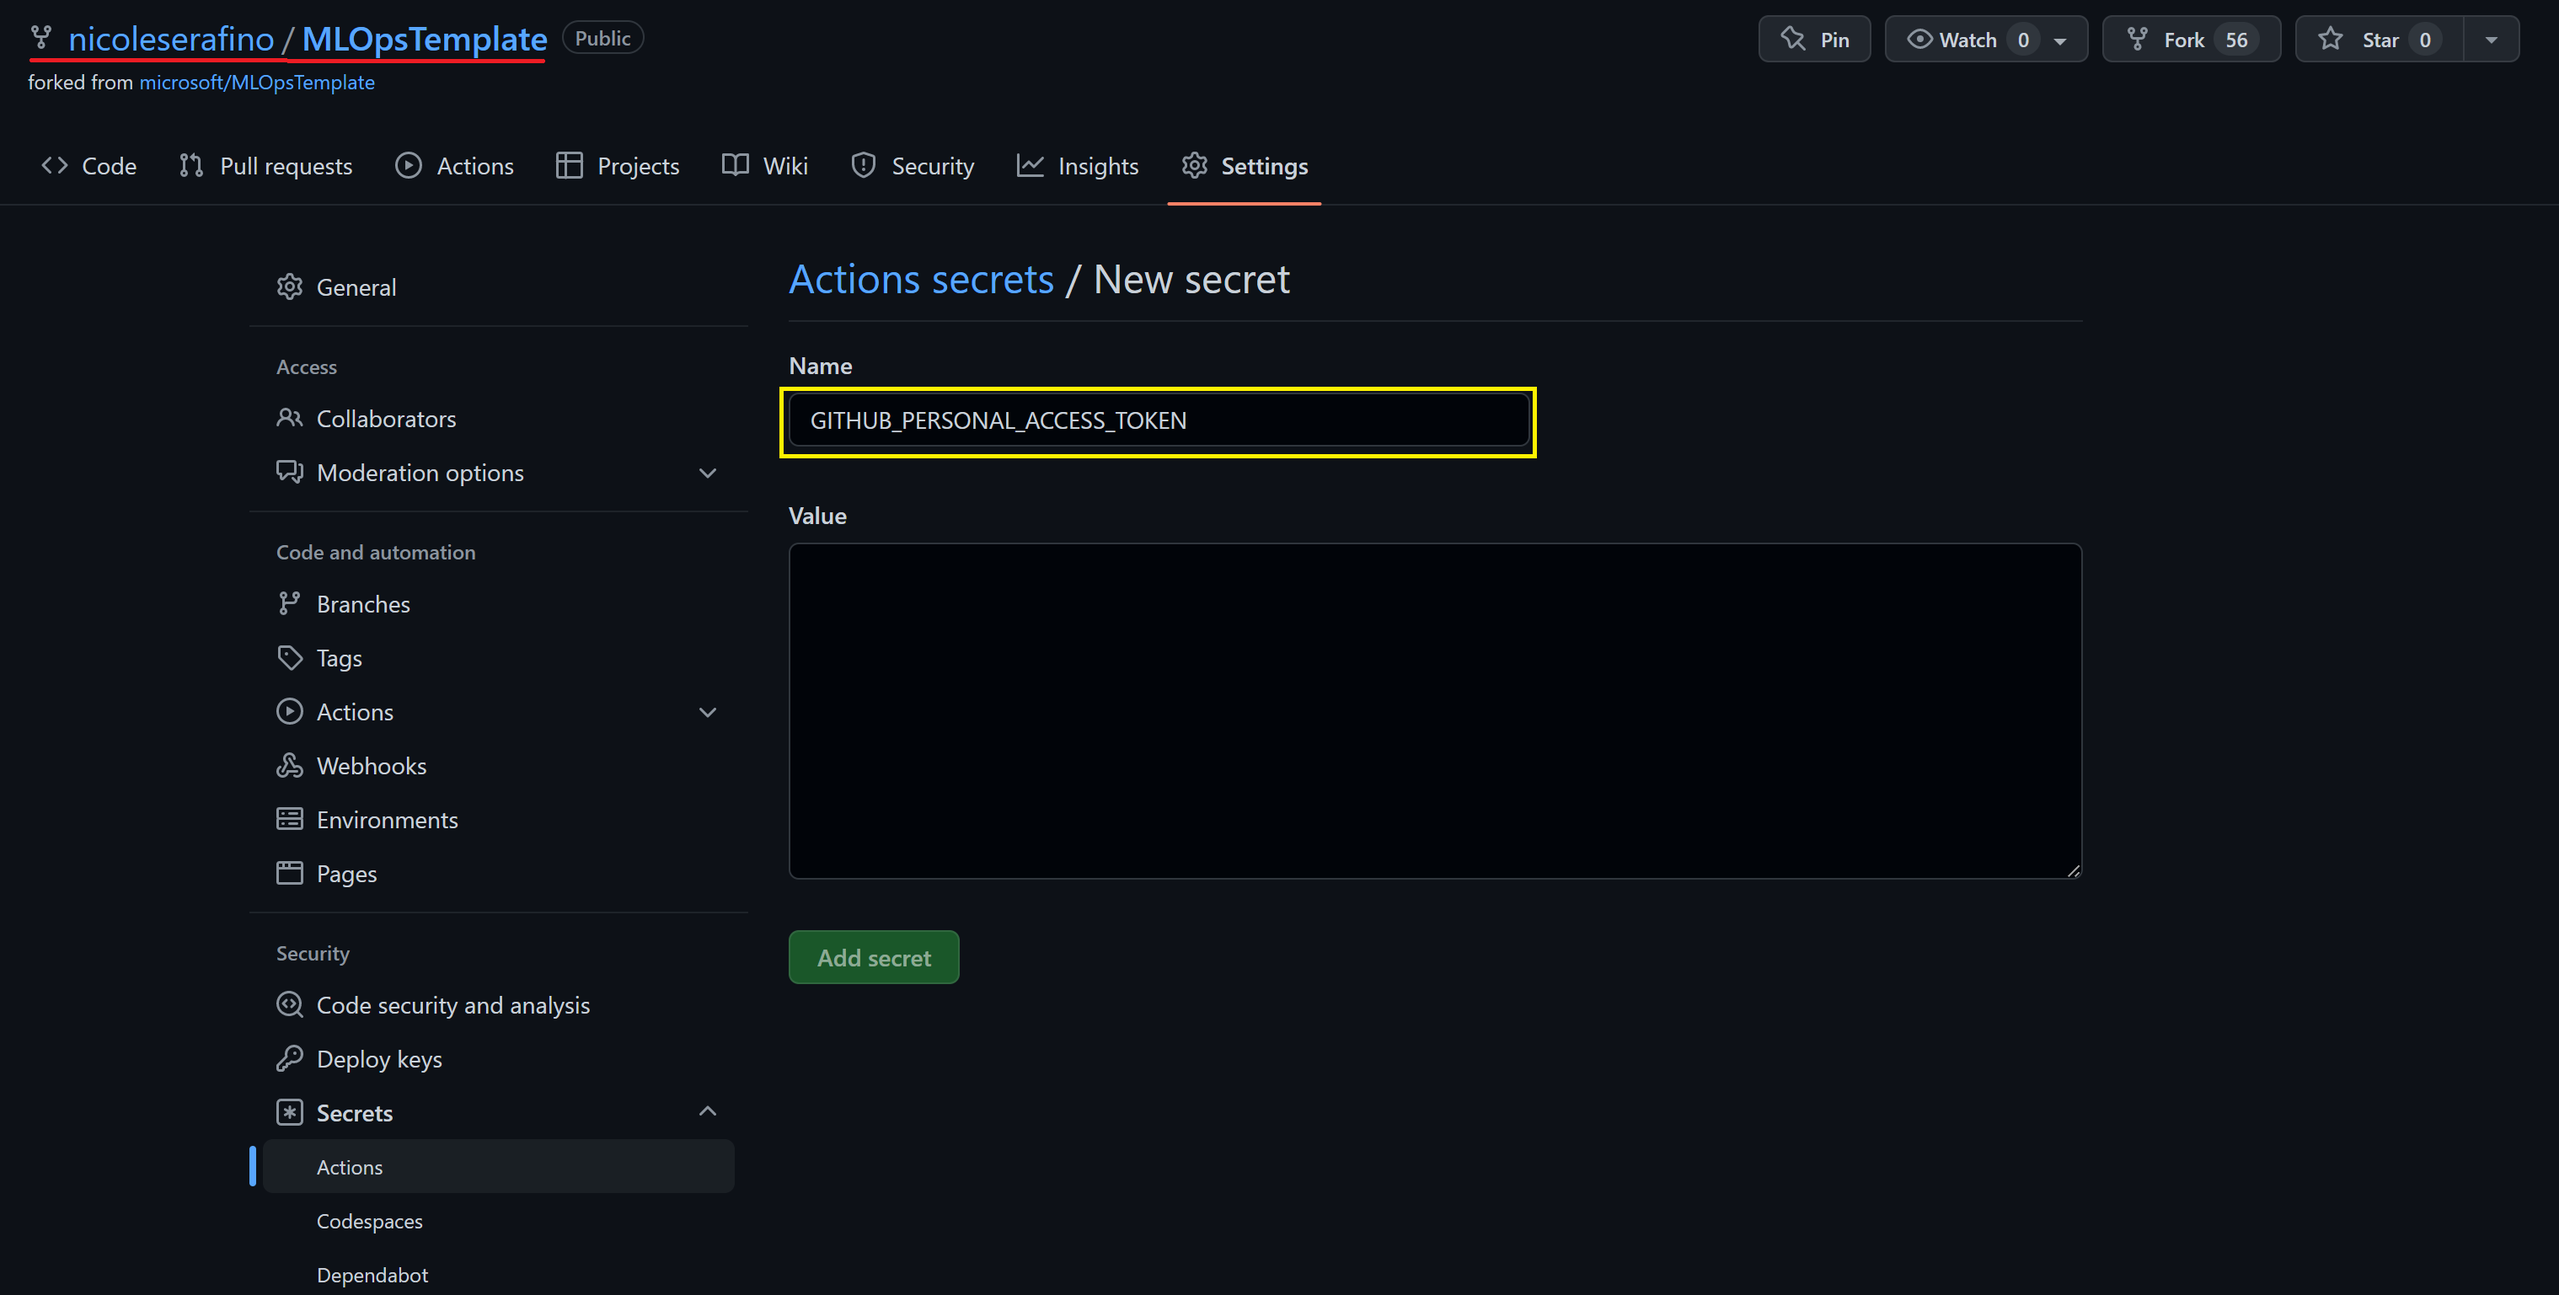
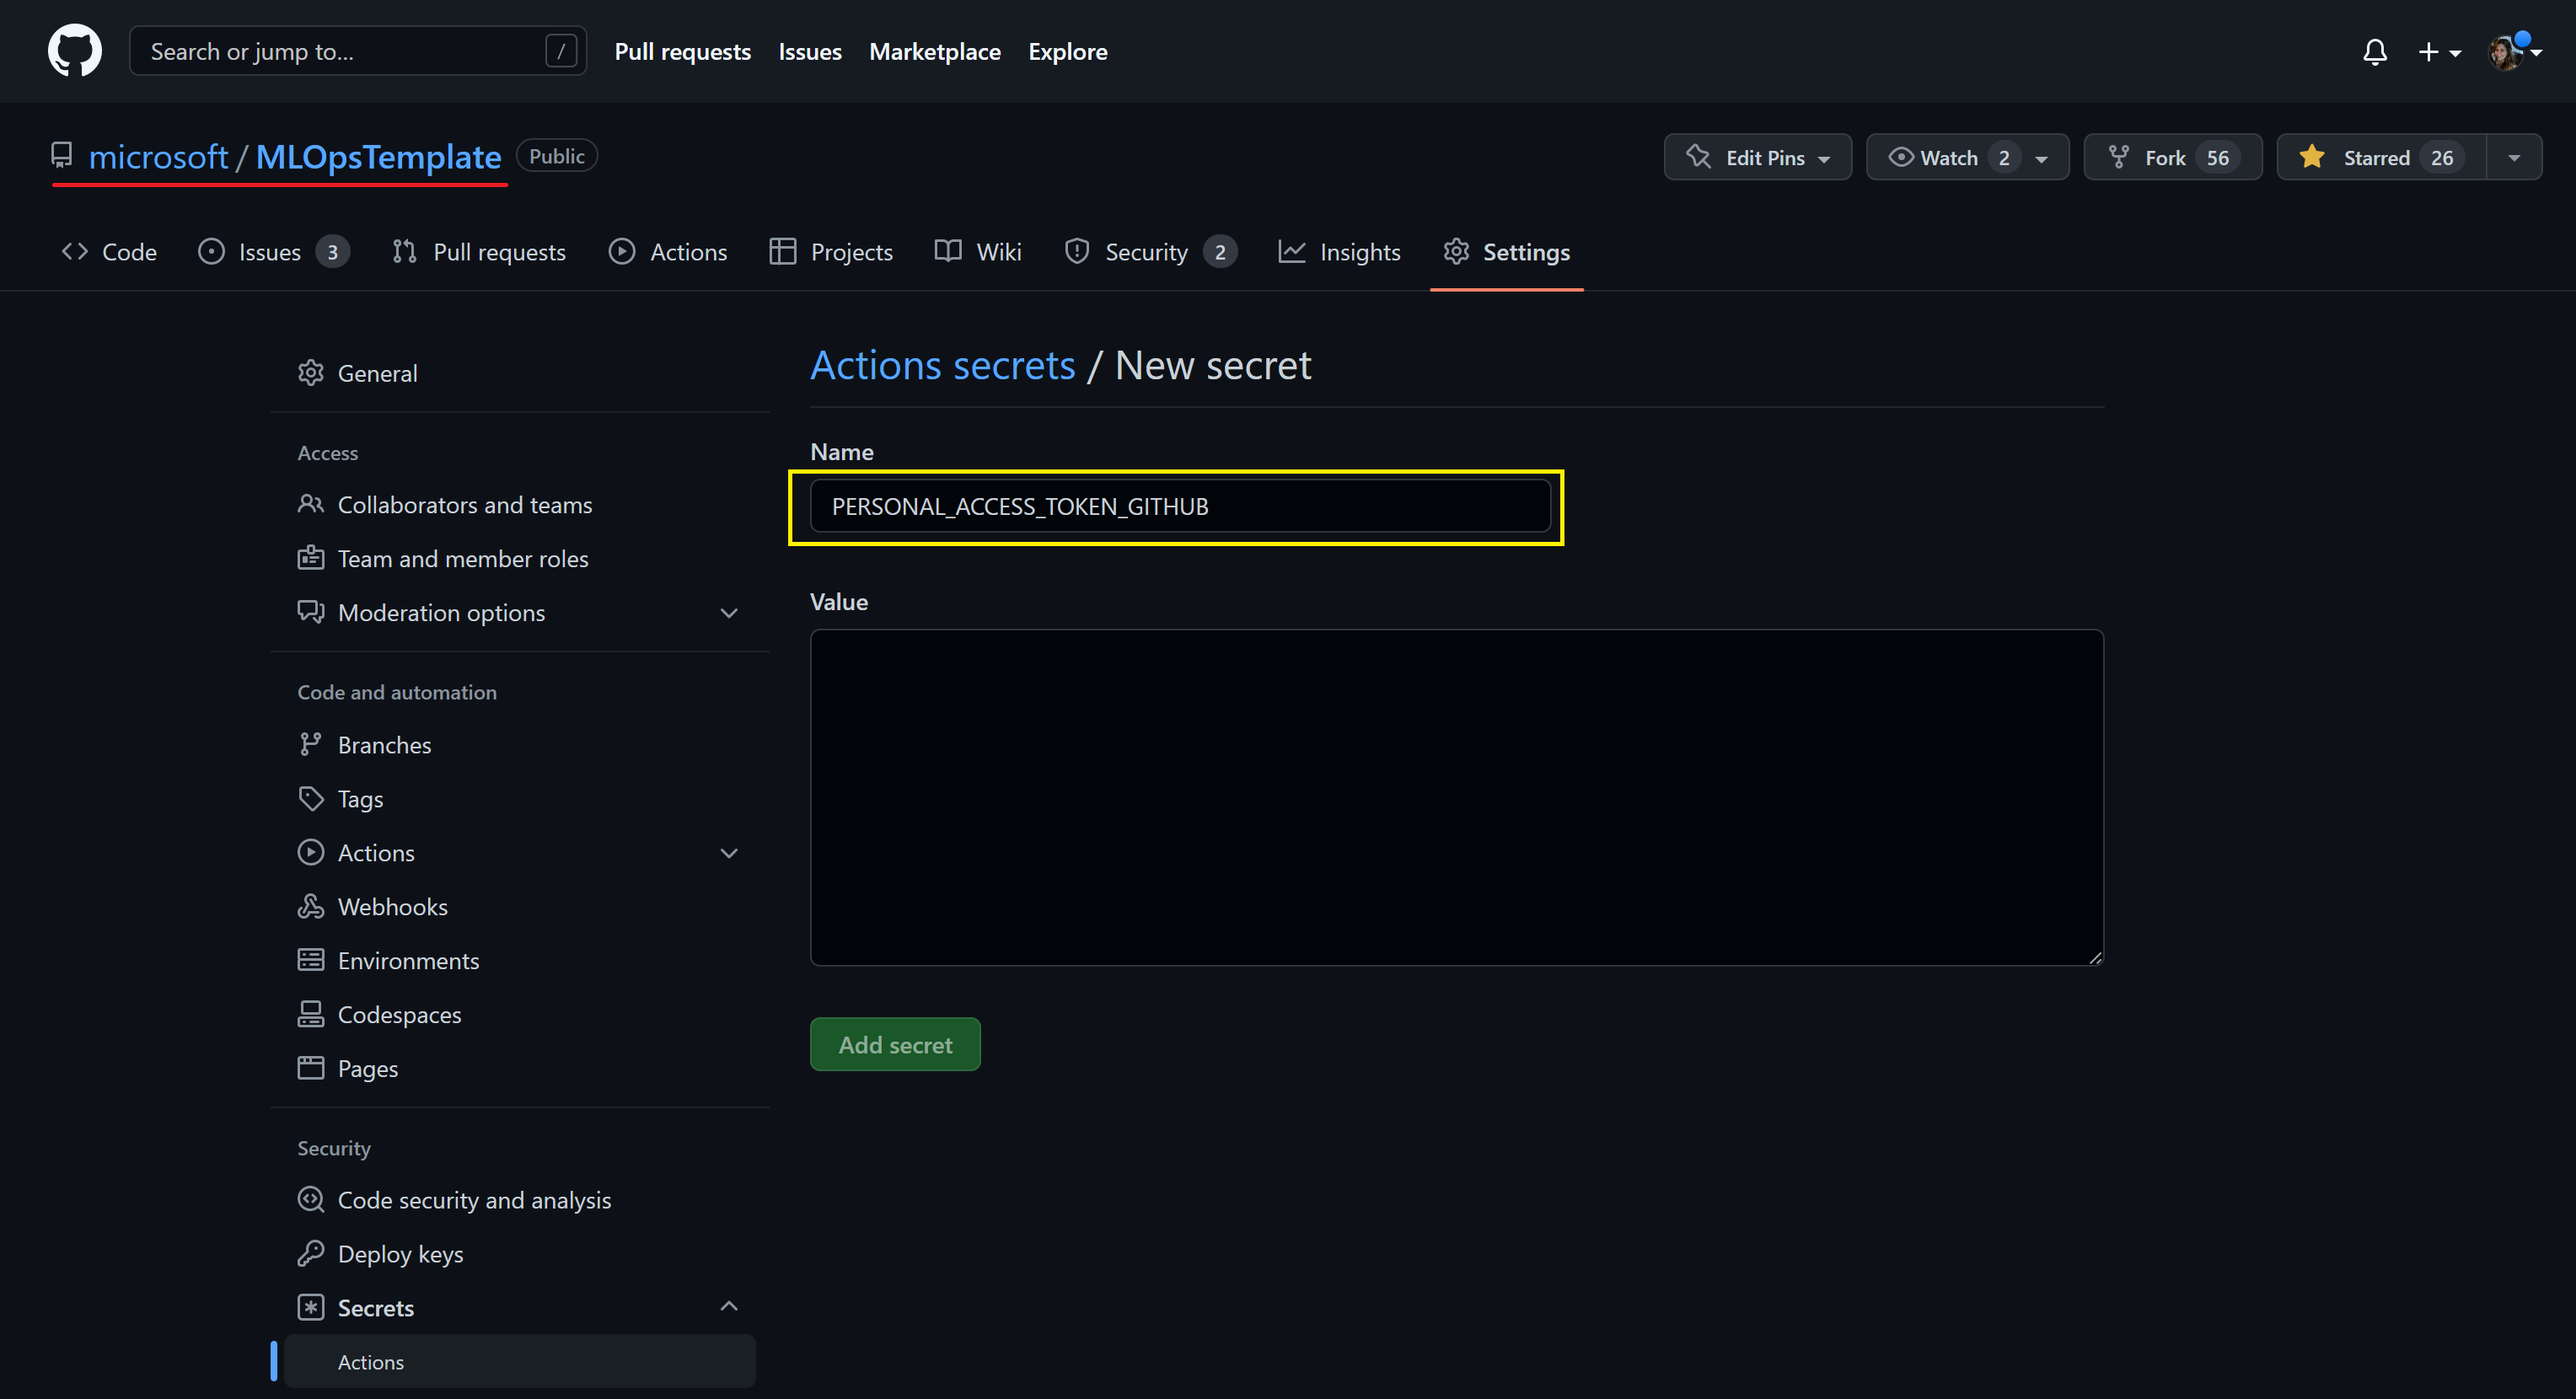
update github PAT secret name

diff --git a/src/workshop/documents/part_0.md b/src/workshop/documents/part_0.md
@@ -450,9 +450,9 @@ You are going to create PAT to allow your code access your personal git repo
 
     ![](./images/github4001.png)
 
-- Type `GITHUB_PERSONAL_ACCESS_TOKEN` for the name of the secret, and paste the token you copied from PAT section
+- Type `PERSONAL_ACCESS_TOKEN_GITHUB` for the name of the secret, and paste the token you copied from PAT section
 
-    > Important: The name for this secret must be `GITHUB_PERSONAL_ACCESS_TOKEN`
+    > Important: The name for this secret must be `PERSONAL_ACCESS_TOKEN_GITHUB`
 
     ![](./images/github4008.png)
 
